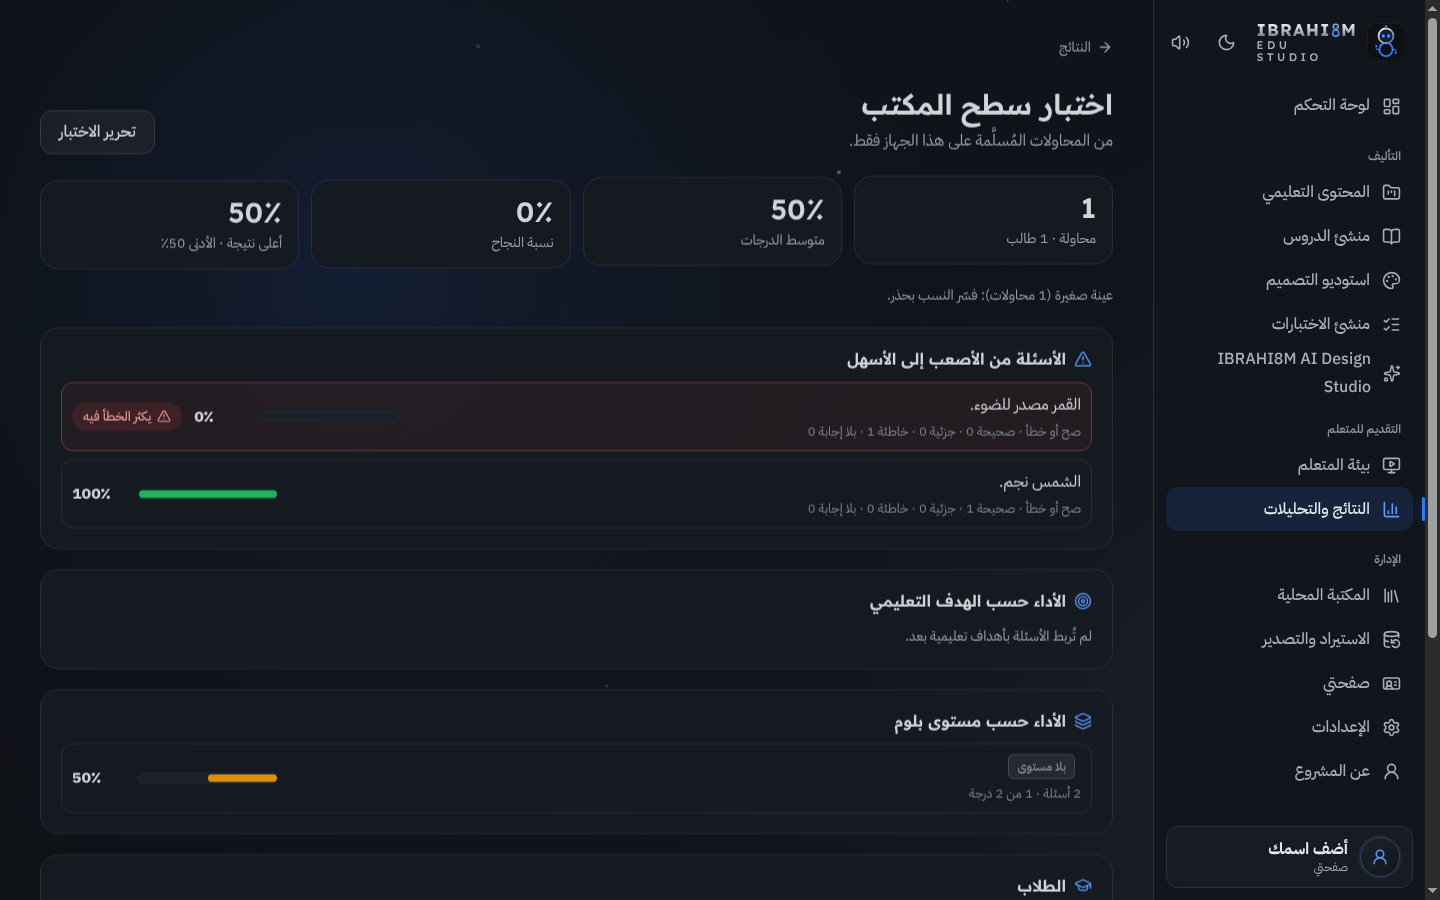
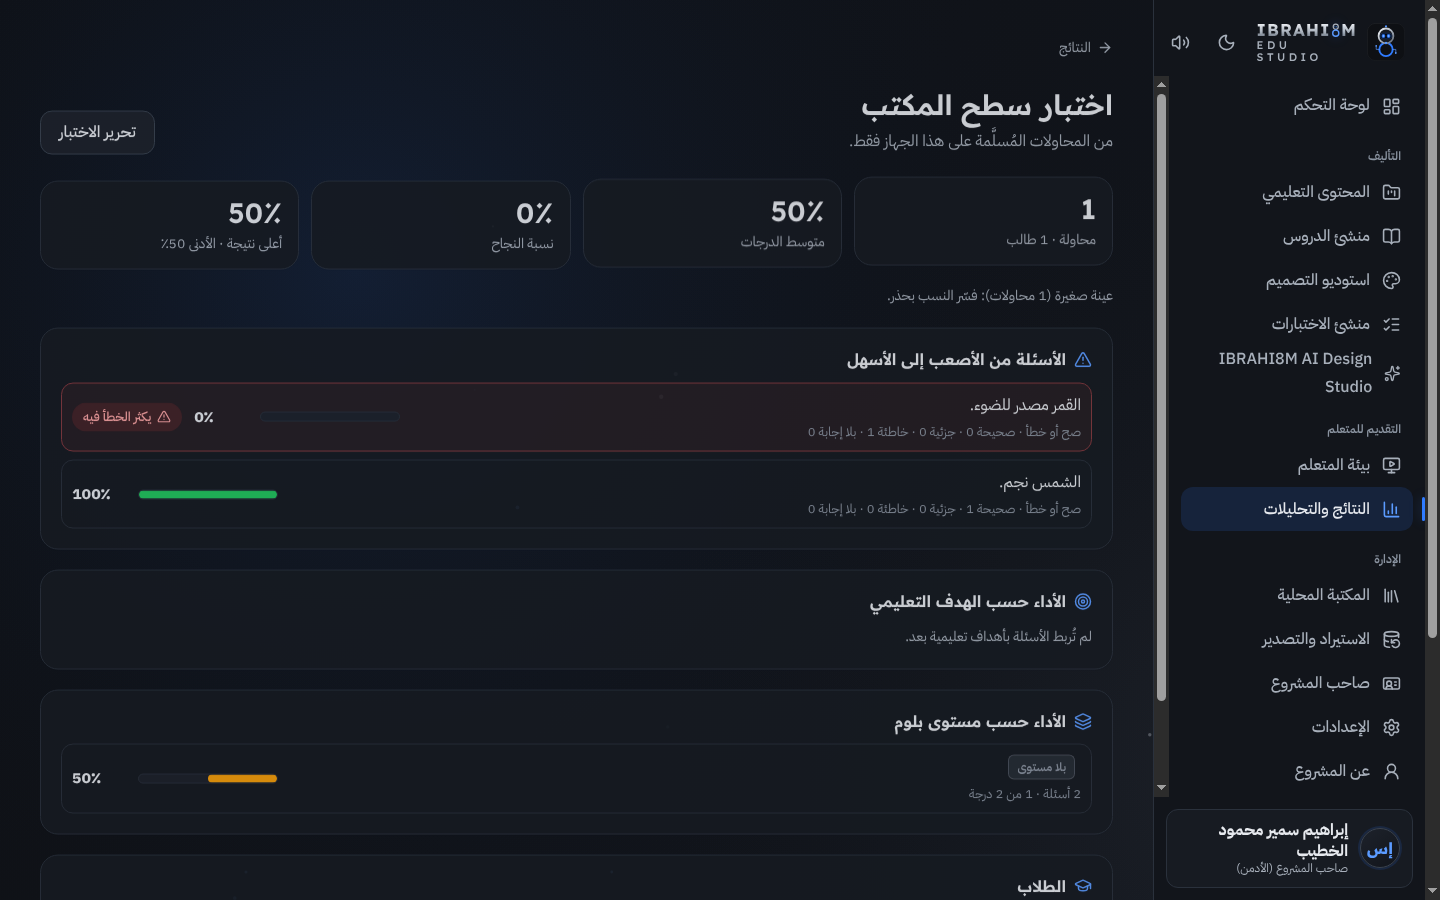
1.5.0: content/owner e2e tests, desktop tests sign in, role unit tests
Claude-Session: https://claude.ai/code/session_016S8pu8ojoQuHjbpHzx4QdA

diff --git a/tests/e2e/v15.spec.ts b/tests/e2e/v15.spec.ts
@@ -226,3 +226,131 @@ test.describe('volume control 1.5.0', () => {
     expect((await audio(page)).gain).toBeGreaterThan(low);
   });
 });
+
+test.describe('content fields 1.5.0', () => {
+  test('school / university / training: the right fields, free-text course and topic, saved and reopened intact; removed options are gone', async ({ page }, info) => {
+    test.skip(!['desktop-1440', 'phone-iphone-se'].includes(info.project.name), 'computer and the smallest phone');
+    test.setTimeout(120_000);
+    await disableSplash(page);
+    await page.goto('./#/projects');
+
+    // school
+    await page.getByTestId('new-project').click();
+    const d = page.locator('dialog[open][data-testid=project-dialog]');
+    await d.getByTestId('content-kind-school').click();
+    const grades = await d.getByTestId('project-grade').locator('option').allTextContents();
+    expect(grades).not.toContain('التعليم الجامعي');
+    expect(grades).not.toContain('تدريب المعلمين');
+    expect(grades).toContain('الصف السابع');
+    const subjects = await d.locator('datalist option').evaluateAll((o) => o.map((x) => (x as HTMLOptionElement).value));
+    expect(subjects).toContain('الرياضيات');
+    expect(subjects).not.toContain('المناهج وطرق التدريس');
+    const sem = await d.getByTestId('detail-semester').locator('option').allTextContents();
+    expect(sem).toEqual(['غير محدد', 'الفصل الأول', 'الفصل الثاني', 'الفصل الصيفي']); // «العام كاملًا» removed
+    await d.getByTestId('project-title').fill('وحدة الكسور');
+    await d.getByTestId('project-subject').fill('الرياضيات');
+    await d.getByTestId('project-grade').selectOption('الصف السابع');
+    await d.getByTestId('detail-semester').selectOption('الفصل الثاني');
+    await d.getByTestId('project-save').click();
+    await expect(page.getByTestId('page-project')).toBeVisible();
+
+    // university: course name typed freely, no school subject list
+    await page.goto('./#/projects');
+    await page.getByTestId('new-project').click();
+    await d.getByTestId('content-kind-university').click();
+    await expect(d.getByTestId('project-grade')).toHaveCount(0);
+    expect(await d.getByTestId('project-subject').getAttribute('list')).toBeNull();
+    await expect(d.getByTestId('project-subject')).toHaveAttribute('placeholder', /اسم المساق/);
+    await d.getByTestId('project-title').fill('مساق متقدم');
+    await d.getByTestId('project-subject').fill('مناهج البحث في تكنولوجيا التعليم (دكتوراه)');
+    await d.getByTestId('detail-degree').selectOption('دكتوراه');
+    await d.getByTestId('project-save').click();
+    await expect(page.getByTestId('page-project')).toBeVisible();
+
+    // training: topic typed freely
+    await page.goto('./#/projects');
+    await page.getByTestId('new-project').click();
+    await d.getByTestId('content-kind-training').click();
+    expect(await d.getByTestId('project-subject').getAttribute('list')).toBeNull();
+    await d.getByTestId('project-title').fill('برنامج التقويم');
+    await d.getByTestId('project-subject').fill('التقويم البديل في الصفوف الأساسية');
+    await d.getByTestId('project-save').click();
+    await expect(page.getByTestId('page-project')).toBeVisible();
+
+    // reopen each for editing: every value is back where it belongs
+    await page.reload();
+    for (const [title, subject] of [
+      ['وحدة الكسور', 'الرياضيات'],
+      ['مساق متقدم', 'مناهج البحث في تكنولوجيا التعليم (دكتوراه)'],
+      ['برنامج التقويم', 'التقويم البديل في الصفوف الأساسية'],
+    ]) {
+      await page.goto('./#/projects');
+      await page.getByRole('link', { name: title }).first().click();
+      await page.getByTestId('edit-project').click();
+      await expect(d.getByTestId('project-title')).toHaveValue(title);
+      await expect(d.getByTestId('project-subject')).toHaveValue(subject);
+      if (title === 'وحدة الكسور') {
+        await expect(d.getByTestId('project-grade')).toHaveValue('الصف السابع');
+        await expect(d.getByTestId('detail-semester')).toHaveValue('الفصل الثاني');
+      }
+      if (title === 'مساق متقدم') await expect(d.getByTestId('detail-degree')).toHaveValue('دكتوراه');
+      await d.getByTestId('project-save').click(); // saving again changes nothing
+      await expect(d).toHaveCount(0);
+    }
+  });
+
+  test('a value saved before 1.5.0 («العام كاملًا», a university stage) is kept, not deleted', async ({ page }, info) => {
+    test.skip(info.project.name !== 'desktop-1440', 'one size');
+    await disableSplash(page);
+    await page.goto('./#/projects');
+    await page.evaluate(async () => {
+      const open = indexedDB.open('ibrahi8m-edu');
+      const db: IDBDatabase = await new Promise((ok) => (open.onsuccess = () => ok(open.result)));
+      const tx = db.transaction('projects', 'readwrite');
+      tx.objectStore('projects').put({ id: 'old-p', title: 'محتوى قديم', subject: 'المناهج وطرق التدريس', grade: 'الصف الثامن', description: '', status: 'draft', tags: [], color: 'blue', kind: 'school', published: true, details: { semester: 'العام كاملًا' }, createdAt: 1, updatedAt: 1 });
+      await new Promise((ok) => (tx.oncomplete = ok));
+      db.close();
+    });
+    await page.goto('./#/projects/old-p');
+    await page.getByTestId('edit-project').click();
+    const d = page.locator('dialog[open][data-testid=project-dialog]');
+    await expect(d.getByTestId('detail-semester')).toHaveValue('العام كاملًا');
+    await expect(d.getByTestId('project-subject')).toHaveValue('المناهج وطرق التدريس');
+    await d.getByTestId('project-description').fill('عُدّل');
+    await d.getByTestId('project-save').click();
+    await expect(d).toHaveCount(0);
+    const kept = await page.evaluate(async () => {
+      const open = indexedDB.open('ibrahi8m-edu');
+      const db: IDBDatabase = await new Promise((ok) => (open.onsuccess = () => ok(open.result)));
+      const r = db.transaction('projects').objectStore('projects').get('old-p');
+      const v = await new Promise<{ details: { semester: string }; subject: string }>((ok) => (r.onsuccess = () => ok(r.result)));
+      db.close();
+      return v;
+    });
+    expect(kept.details.semester).toBe('العام كاملًا');
+    expect(kept.subject).toBe('المناهج وطرق التدريس');
+  });
+});
+
+test('«صاحب المشروع»: renamed, the owner’s name, phone, e-mail and English level; no «المراجع»; edits by the admin persist', async ({ page }, info) => {
+  test.skip(!['desktop-1440', 'phone-pixel-7'].includes(info.project.name), 'computer and phone');
+  await disableSplash(page);
+  await page.goto('./#/me');
+  await expect(page.getByTestId('page-me').getByRole('heading', { level: 1 }).first()).toHaveText('صاحب المشروع');
+  await expect(page.getByTestId('owner-name')).toHaveText('إبراهيم سمير محمود الخطيب');
+  await expect(page.getByTestId('owner-phone')).toHaveText('0592780728');
+  await expect(page.getByTestId('owner-email')).toHaveText('ibrahimyasf@gmail.com');
+  await expect(page.getByTestId('owner-english')).toHaveText('جيد');
+  await expect(page.getByTestId('page-me')).not.toContainText('المراجع');
+  await expect(page.getByTestId('page-me')).not.toContainText('صفحتي');
+  await page.goto('./#/more');
+  await expect(page.getByTestId('page-more')).toContainText('صاحب المشروع');
+  await expect(page.getByTestId('page-more')).not.toContainText('صفحتي');
+  await page.goto('./#/me');
+  await page.getByTestId('cv-edit').click();
+  await expect(page.getByTestId('cv-editor')).not.toContainText('المراجع');
+  await page.getByTestId('cv-in-phone').fill('0592 780 728');
+  await page.getByTestId('cv-save').click();
+  await page.reload();
+  await expect(page.getByTestId('owner-phone')).toHaveText('0592 780 728');
+});

diff --git a/tests/unit/auth.test.ts b/tests/unit/auth.test.ts
@@ -1,0 +1,48 @@
+import { describe, expect, it } from 'vitest';
+import { canAccess, homeFor } from '../../src/auth/types';
+import { canEditProject, canSeeProject } from '../../src/auth/access';
+import { checkPassword, checkUsername, hashPassword } from '../../src/auth/local';
+
+const admin = { id: 'a', login: 'a', displayName: 'A', role: 'admin' as const, mode: 'local' as const };
+const teacher = { ...admin, id: 't', role: 'teacher' as const };
+const student = { ...admin, id: 's', role: 'student' as const, learnerName: 'سامي' };
+
+describe('1.5.0 roles', () => {
+  it('route rules per role', () => {
+    for (const p of ['/', '/users', '/backup', '/settings', '/projects/1', '/me', '/learn']) expect(canAccess('admin', p), p).toBe(true);
+    for (const p of ['/users', '/backup', '/settings']) expect(canAccess('teacher', p), p).toBe(false);
+    for (const p of ['/', '/projects', '/quizzes/x', '/results', '/ai-studio', '/me', '/learn', '/account']) expect(canAccess('teacher', p), p).toBe(true);
+    for (const p of ['/', '/projects', '/results', '/me', '/users', '/ai-studio', '/backup']) expect(canAccess('student', p), p).toBe(false);
+    for (const p of ['/learn', '/learn/lesson/1', '/take/q', '/account', '/about']) expect(canAccess('student', p), p).toBe(true);
+    expect(homeFor('student')).toBe('/learn');
+    expect(homeFor('teacher')).toBe('/');
+  });
+  it('content visibility and editing', () => {
+    const mine = { ownerId: 't', published: true };
+    const adminOld = { published: true }; // before 1.5.0: no owner = the admin's
+    const draft = { ownerId: 'a', published: false };
+    expect(canSeeProject(mine, teacher)).toBe(true);
+    expect(canSeeProject(adminOld, teacher)).toBe(false);
+    expect(canSeeProject(adminOld, admin)).toBe(true);
+    expect(canSeeProject(adminOld, student)).toBe(true); // published, read-only
+    expect(canSeeProject(draft, student)).toBe(false);
+    expect(canEditProject(mine, teacher)).toBe(true);
+    expect(canEditProject(adminOld, teacher)).toBe(false);
+    expect(canEditProject(mine, student)).toBe(false);
+    expect(canSeeProject(mine, null)).toBe(false);
+  });
+  it('password and user-name rules; PBKDF2 hash is salted and repeatable', async () => {
+    expect(checkPassword('short1')).toBeTruthy();
+    expect(checkPassword('onlyletters')).toBeTruthy();
+    expect(checkPassword('Good-pass-1')).toBeNull();
+    expect(checkUsername('a b')).toBeTruthy();
+    expect(checkUsername('ab')).toBeTruthy();
+    expect(checkUsername('ibrahim')).toBeNull();
+    const salt = btoa('0123456789abcdef');
+    const h1 = await hashPassword('Good-pass-1', salt, 1000);
+    expect(h1).toBe(await hashPassword('Good-pass-1', salt, 1000));
+    expect(h1).not.toBe(await hashPassword('Good-pass-2', salt, 1000));
+    expect(h1).not.toBe(await hashPassword('Good-pass-1', btoa('fedcba9876543210'), 1000));
+    expect(h1).not.toContain('Good-pass-1');
+  });
+});

diff --git a/tests/desktop/desktop.spec.ts b/tests/desktop/desktop.spec.ts
@@ -1,4 +1,5 @@
 import { _electron as electron, expect, test } from '@playwright/test';
+import { signedIn } from './signin';
 import { mkdtempSync } from 'node:fs';
 import { tmpdir } from 'node:os';
 import { join, resolve } from 'node:path';
@@ -15,6 +16,7 @@ test('desktop app runs from disk, blocks the network and keeps settings, project
   expect(w1.url()).toBe('app://edu/index.html');
   await expect(w1.getByTestId('splash')).toBeVisible();
   await expect(w1.getByTestId('splash')).toBeHidden({ timeout: 6000 });
+  await signedIn(w1);
   await expect(w1.getByTestId('page-dashboard')).toBeVisible();
   expect(await w1.evaluate(() => window.ibrahi8mDesktop?.platform)).toBeTruthy();
   await expect(w1.getByTestId('status-offline')).toContainText('نسخة سطح المكتب');
@@ -41,11 +43,11 @@ test('desktop app runs from disk, blocks the network and keeps settings, project
 
   await w1.goto('app://edu/index.html#/settings');
   await w1.getByRole('radio', { name: 'نهاري' }).click();
-  await w1.goto('app://edu/index.html#/me');
-  const f = w1.getByTestId('profile-userOrganization');
-  await f.fill('جامعة — اختبار سطح المكتب');
-  await f.blur();
-  await expect(w1.getByText('تم الحفظ')).toBeVisible();
+  // 1.5.0: the account's own name (the profile fields moved to «حسابي»)
+  await w1.goto('app://edu/index.html#/account');
+  await w1.getByTestId('account-name').fill('جامعة — اختبار سطح المكتب');
+  await w1.getByTestId('account-name-save').click();
+  await expect(w1.getByTestId('toast').last()).toContainText('حُفظ الاسم');
 
   // Phase 1: a project with lessons, written to the desktop app's own database
   await w1.goto('app://edu/index.html#/projects');
@@ -80,10 +82,11 @@ test('desktop app runs from disk, blocks the network and keeps settings, project
   // Second launch: data is still there.
   const app2 = await launch(userData);
   const w2 = await app2.firstWindow();
+  await signedIn(w2);
   await expect(w2.getByTestId('page-dashboard')).toBeVisible({ timeout: 8000 });
   await expect.poll(() => w2.evaluate(() => document.documentElement.dataset.theme), { timeout: 5000 }).toBe('light');
-  await w2.goto('app://edu/index.html#/me');
-  await expect(w2.getByText('جامعة — اختبار سطح المكتب').first()).toBeVisible();
+  await w2.goto('app://edu/index.html#/account');
+  await expect(w2.getByTestId('account-name')).toHaveValue('جامعة — اختبار سطح المكتب');
   await w2.goto('app://edu/index.html#/about');
   await w2.screenshot({ path: 'docs/screenshots/desktop-app/about-light.png' });
   await w2.goto('app://edu/index.html#/projects');

diff --git a/tests/desktop/transfer-desktop.spec.ts b/tests/desktop/transfer-desktop.spec.ts
@@ -1,4 +1,5 @@
 import { _electron as electron, expect, test, type Page } from '@playwright/test';
+import { signedIn } from './signin';
 import { existsSync, mkdtempSync, readdirSync } from 'node:fs';
 import { tmpdir } from 'node:os';
 import { join } from 'node:path';
@@ -17,6 +18,7 @@ test('desktop app: a project is exported to an .ibm file with its Arabic name an
   // ── installation A: a project with a lesson, exported and backed up ──
   const app1 = await launch(userA, downloads);
   const w1 = await app1.firstWindow();
+  await signedIn(w1);
   await expect(w1.getByTestId('page-dashboard')).toBeVisible({ timeout: 10_000 });
   await go(w1, '/settings');
   await w1.getByTestId('toggle-splash').uncheck();
@@ -44,6 +46,7 @@ test('desktop app: a project is exported to an .ibm file with its Arabic name an
   // ── installation B (empty): import the project file ──
   const app2 = await launch(userB, downloads);
   const w2 = await app2.firstWindow();
+  await signedIn(w2);
   await go(w2, '/backup');
   await w2.getByTestId('import-file').setInputFiles(projectFile);
   await expect(w2.getByTestId('import-preview')).toHaveAttribute('data-kind', 'project');
@@ -58,6 +61,7 @@ test('desktop app: a project is exported to an .ibm file with its Arabic name an
   const userC = mkdtempSync(join(tmpdir(), 'ibrahi8m-desktop-c-'));
   const app3 = await launch(userC, downloads);
   const w3 = await app3.firstWindow();
+  await signedIn(w3);
   await go(w3, '/backup');
   await w3.getByTestId('import-file').setInputFiles(backupFile);
   await expect(w3.getByTestId('import-preview')).toHaveAttribute('data-kind', 'backup');
@@ -67,6 +71,7 @@ test('desktop app: a project is exported to an .ibm file with its Arabic name an
   await app3.close();
   const app4 = await launch(userC, downloads);
   const w4 = await app4.firstWindow();
+  await signedIn(w4);
   await go(w4, '/projects');
   await w4.getByRole('link', { name: /وحدة الطاقة/ }).first().click();
   await expect(w4.getByText('مصادر الطاقة').first()).toBeVisible();

diff --git a/tests/desktop/signin.ts b/tests/desktop/signin.ts
@@ -1,0 +1,27 @@
+import { expect, type Page } from '@playwright/test';
+
+/**
+ * 1.5.0: the desktop app opens on the sign-in screen. A fresh profile shows the first-run setup
+ * (the owner creates the admin account); a known one shows the login unless the session is still valid.
+ */
+export const DESKTOP_ADMIN = { user: 'desk-admin', pass: 'Desk-pass-2026' };
+
+export async function signedIn(w: Page) {
+  const setup = w.getByTestId('page-setup');
+  const login = w.getByTestId('page-login');
+  const inside = w.locator('.shell, [data-testid=student-shell]');
+  await expect(setup.or(login).or(inside).first()).toBeVisible({ timeout: 15_000 });
+  await expect(w.getByTestId('splash')).toBeHidden({ timeout: 10_000 });
+  if (await setup.isVisible()) {
+    await w.getByTestId('setup-user').fill(DESKTOP_ADMIN.user);
+    await w.getByTestId('setup-password').fill(DESKTOP_ADMIN.pass);
+    await w.getByTestId('setup-password2').fill(DESKTOP_ADMIN.pass);
+    await w.getByTestId('setup-submit').click();
+    await w.getByTestId('setup-continue').click();
+  } else if (await login.isVisible()) {
+    await w.getByTestId('login-user').fill(DESKTOP_ADMIN.user);
+    await w.getByTestId('login-password').fill(DESKTOP_ADMIN.pass);
+    await w.getByTestId('login-submit').click();
+  }
+  await expect(inside.first()).toBeVisible({ timeout: 10_000 });
+}

diff --git a/tests/desktop/appearance-desktop.spec.ts b/tests/desktop/appearance-desktop.spec.ts
@@ -1,4 +1,5 @@
 import { _electron as electron, expect, test } from '@playwright/test';
+import { signedIn } from './signin';
 import { mkdtempSync } from 'node:fs';
 import { tmpdir } from 'node:os';
 import { join } from 'node:path';
@@ -11,6 +12,7 @@ test('desktop app: animated background, light theme and generated music work; af
   const userData = mkdtempSync(join(tmpdir(), 'ibrahi8m-desktop-look-'));
   const app1 = await launch(userData);
   const w1 = await app1.firstWindow();
+  await signedIn(w1);
   await expect(w1.getByTestId('page-dashboard')).toBeVisible({ timeout: 10_000 });
   await expect(w1.getByTestId('ambient-bg')).toHaveAttribute('data-state', 'moving');
   await w1.locator('[data-testid=theme-button]:visible').click();
@@ -23,6 +25,7 @@ test('desktop app: animated background, light theme and generated music work; af
 
   const app2 = await launch(userData);
   const w2 = await app2.firstWindow();
+  await signedIn(w2);
   await expect(w2.getByTestId('page-dashboard')).toBeVisible({ timeout: 10_000 });
   await expect.poll(() => w2.evaluate(() => document.documentElement.dataset.theme)).toBe('light');
   await w2.waitForTimeout(500);

diff --git a/tests/desktop/studio-desktop.spec.ts b/tests/desktop/studio-desktop.spec.ts
@@ -1,4 +1,5 @@
 import { _electron as electron, expect, test, type Page } from '@playwright/test';
+import { signedIn } from './signin';
 import { existsSync, mkdtempSync, readFileSync } from 'node:fs';
 import { tmpdir } from 'node:os';
 import { join } from 'node:path';
@@ -14,6 +15,7 @@ test('desktop app: a visual summary is designed, exported as a PNG file with its
 
   const app1 = await launch(userData, downloads);
   const w1 = await app1.firstWindow();
+  await signedIn(w1);
   await expect(w1.getByTestId('page-dashboard')).toBeVisible({ timeout: 10_000 });
   await go(w1, '/settings');
   await w1.getByTestId('toggle-splash').uncheck();
@@ -47,6 +49,7 @@ test('desktop app: a visual summary is designed, exported as a PNG file with its
 
   const app2 = await launch(userData, downloads);
   const w2 = await app2.firstWindow();
+  await signedIn(w2);
   await go(w2, '/studio');
   await w2.getByRole('link', { name: 'فتح التصميم: ملخص سطح المكتب' }).click();
   await expect(w2.getByTestId('summary-heading')).toHaveValue('مصادر الطاقة');

diff --git a/tests/desktop/identity-desktop.spec.ts b/tests/desktop/identity-desktop.spec.ts
@@ -1,4 +1,5 @@
 import { _electron as electron, expect, test, type Page } from '@playwright/test';
+import { signedIn } from './signin';
 import { mkdtempSync } from 'node:fs';
 import { tmpdir } from 'node:os';
 import { join } from 'node:path';
@@ -12,6 +13,7 @@ test('desktop app: the new logo shows, the demo project installs with its pictur
   const app1 = await launch(userData);
   const w1 = await app1.firstWindow();
   await expect(w1.getByTestId('splash').locator('img.brand-glyph')).toBeVisible({ timeout: 10_000 });
+  await signedIn(w1);
   await go(w1, '/settings');
   await w1.getByTestId('toggle-splash').uncheck();
   // the sidebar shows the new mark, loaded from inside the app
@@ -28,6 +30,7 @@ test('desktop app: the new logo shows, the demo project installs with its pictur
 
   const app2 = await launch(userData);
   const w2 = await app2.firstWindow();
+  await signedIn(w2);
   await go(w2, '/results');
   await expect(w2.getByTestId('results-row')).toHaveCount(3);
   await expect(w2.getByTestId('student-row')).toHaveCount(10);

diff --git a/tests/desktop/quiz-desktop.spec.ts b/tests/desktop/quiz-desktop.spec.ts
@@ -1,4 +1,5 @@
 import { _electron as electron, expect, test, type Page } from '@playwright/test';
+import { signedIn } from './signin';
 import { mkdtempSync } from 'node:fs';
 import { tmpdir } from 'node:os';
 import { join } from 'node:path';
@@ -12,6 +13,7 @@ test('desktop app: build a quiz, take it, close the app; the attempt and results
 
   const app1 = await launch(userData);
   const w1 = await app1.firstWindow();
+  await signedIn(w1);
   await expect(w1.getByTestId('page-dashboard')).toBeVisible({ timeout: 10_000 });
   await go(w1, '/settings');
   await w1.getByTestId('toggle-splash').uncheck();
@@ -60,6 +62,7 @@ test('desktop app: build a quiz, take it, close the app; the attempt and results
 
   const app2 = await launch(userData);
   const w2 = await app2.firstWindow();
+  await signedIn(w2);
   await go(w2, '/results');
   await w2.getByTestId('results-row').first().click();
   await expect(w2.getByTestId('sum-attempts')).toHaveText('1');

diff --git a/tests/desktop-packaged/packaged.spec.ts b/tests/desktop-packaged/packaged.spec.ts
@@ -2,6 +2,7 @@ import { _electron as electron, expect, test } from '@playwright/test';
 import { mkdtempSync } from 'node:fs';
 import { tmpdir } from 'node:os';
 import { join, resolve } from 'node:path';
+import { signedIn } from '../desktop/signin';
 
 test('packaged Linux build starts and shows the dashboard from disk', async () => {
   const app = await electron.launch({
@@ -10,6 +11,7 @@ test('packaged Linux build starts and shows the dashboard from disk', async () =
     env: { ...process.env, IBRAHI8M_USER_DATA: mkdtempSync(join(tmpdir(), 'ibrahi8m-pkg-')) },
   });
   const w = await app.firstWindow();
+  await signedIn(w); // 1.5.0: first-run owner setup
   await expect(w.getByTestId('page-dashboard')).toBeVisible({ timeout: 10000 });
   await expect(w.getByTestId('status-offline')).toContainText('نسخة سطح المكتب');
   await app.close();
